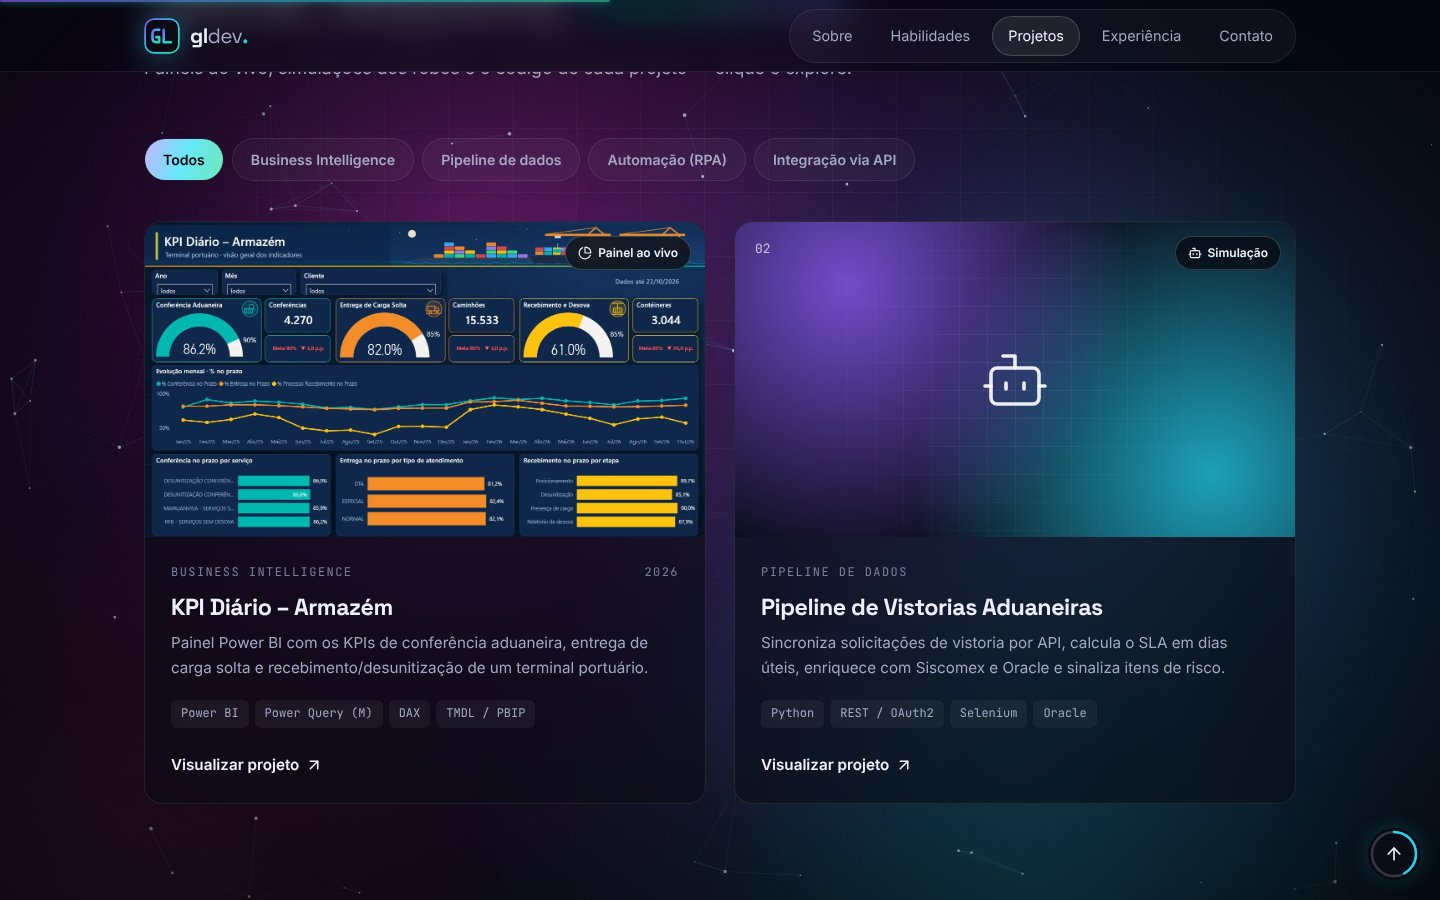
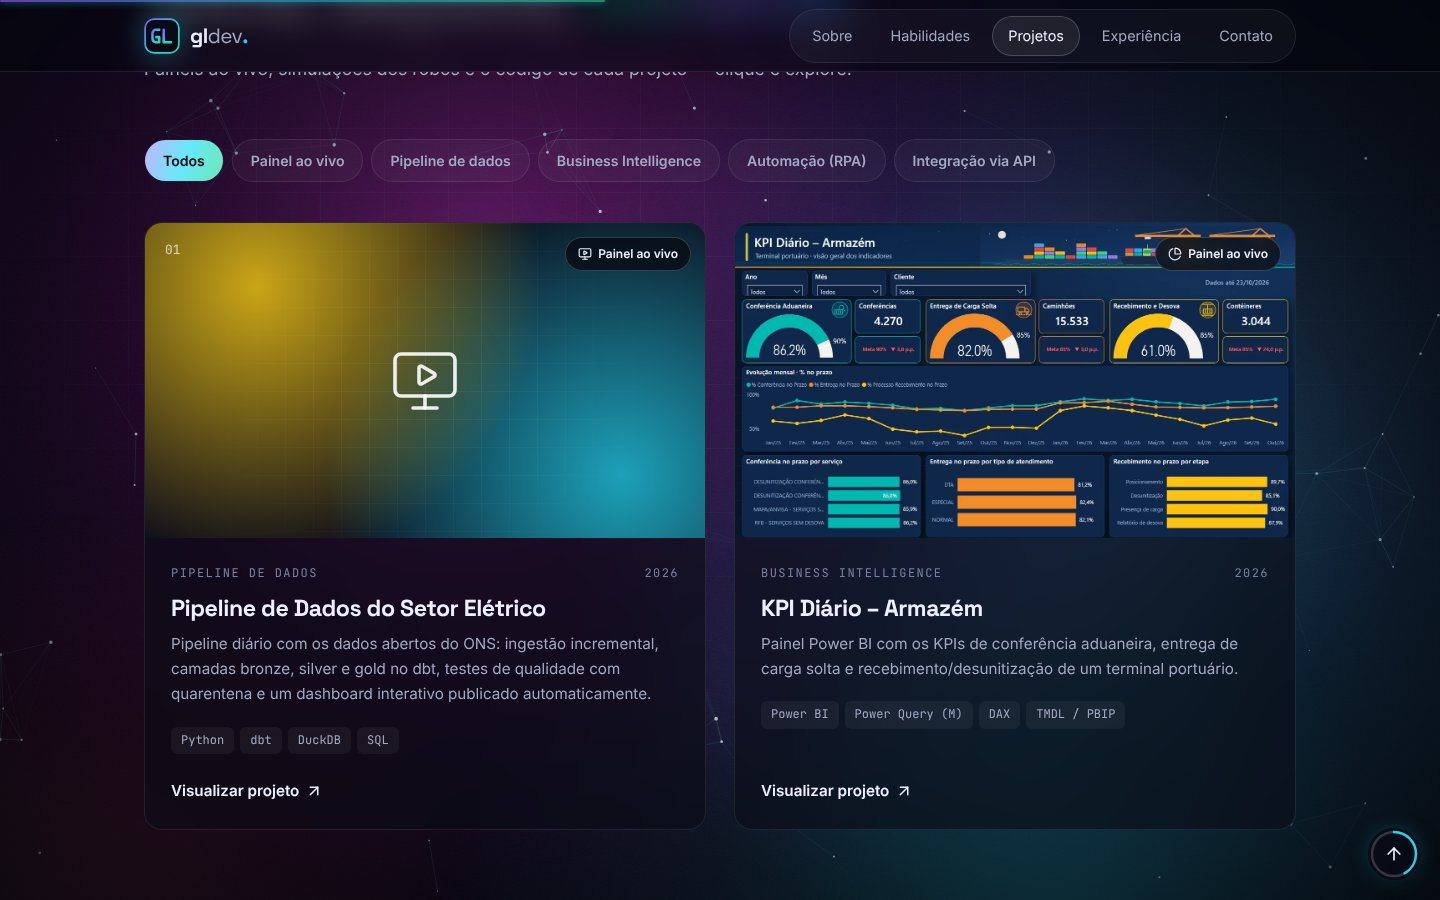
Atualiza README, guia de edição e estabiliza a frase rotativa do topo
Capturas novas do site; guia com o tipo fluxo, a altura opcional do
site, o subtítulo e o filtro Painel ao vivo. Abaixo de 1100 px a frase
rotativa fica sempre na própria linha, para o texto não pular entre
frases de tamanhos diferentes.

Claude-Session: https://claude.ai/code/session_01QcEhV5DZW7eNT5k3FmKKpr

diff --git a/src/secoes/Abertura/Abertura.module.css b/src/secoes/Abertura/Abertura.module.css
@@ -173,6 +173,13 @@
   }
 }
 
+@media (max-width: 1100px) {
+  /* A frase rotativa fica sempre na própria linha, para o texto não pular a cada troca */
+  .rotativo {
+    flex-basis: 100%;
+  }
+}
+
 @media (max-width: 420px) {
   .nome {
     white-space: normal;

diff --git a/docs/COMO-EDITAR.md b/docs/COMO-EDITAR.md
@@ -79,11 +79,16 @@ O nome da aba pode ser trocado com `rotulo: 'Nome da aba'`.
 | Tipo        | Quando usar                                   | Exemplo |
 | ----------- | --------------------------------------------- | ------- |
 | `powerbi`   | Relatório do Power BI ("Publicar na Web")     | `{ tipo: 'powerbi', url: 'https://app.powerbi.com/view?r=...' }` |
-| `site`      | Projeto publicado na internet                 | `{ tipo: 'site', url: 'https://...' }` |
+| `site`      | Projeto ou dashboard publicado na internet    | `{ tipo: 'site', url: 'https://...', altura: 900 }` (`altura` é opcional) |
 | `video`     | Vídeo no YouTube mostrando o projeto          | `{ tipo: 'video', url: 'https://www.youtube.com/watch?v=...' }` |
 | `galeria`   | Prints de telas                               | `{ tipo: 'galeria', imagens: [{ src: '/projetos/x/1.png', legenda: 'Tela inicial' }] }` |
 | `codigo`    | Mostrar um arquivo de código                  | `{ tipo: 'codigo', linguagem: 'Python', arquivo: '/projetos/x/script.py' }` |
 | `simulacao` | Mostrar um robô executando passo a passo      | `{ tipo: 'simulacao', etapas: [{ nome: 'Ler planilha', inicio: 'Abrindo…', fim: 'Planilha lida' }] }` |
+| `fluxo`     | Diagrama da arquitetura (aba "Arquitetura")   | `{ tipo: 'fluxo', etapas: [{ titulo: 'Origem', detalhe: 'Onde o dado nasce', icone: 'nuvem' }] }` |
+
+**Filtro "Painel ao vivo":** projetos com uma aba `powerbi` ou `site` entram nele sozinhos.
+
+**Subtítulo da página:** por padrão, a página do projeto repete o `resumo` do card. Para um texto diferente, preencha `subtitulo`.
 
 **Código:** copie o arquivo para `public/projetos/<slug-do-projeto>/` e aponte `arquivo` para ele.
 Linguagens com cores: `'Python'`, `'SQL'`, `'DAX'`, `'Power Query (M)'`, `'JavaScript'` (ou `'Texto'` sem cores).
@@ -112,7 +117,8 @@ npm run imagens
 ## 3. Habilidades — `habilidades.ts`
 
 Cada cartão tem `titulo`, `descricao`, a lista `itens` e um `icone`, que pode ser:
-`'dados'`, `'graficos'`, `'automacao'`, `'apps'` ou `'negocios'`.
+`'engenharia'`, `'dados'`, `'graficos'`, `'automacao'`, `'apps'` ou `'negocios'`.
+O primeiro card aparece em destaque, na largura toda.
 
 ## 4. Experiência — `experiencias.ts`
 
@@ -128,6 +134,7 @@ A mais recente primeiro. Use `atual: true` no emprego atual (o marcador fica ver
 ## Endereço do site e textos para o Google — `site.ts`
 
 `url` (endereço oficial), `titulo` e `descricao` aparecem no Google e nas prévias do link.
+`resumoPessoa` (frase curta) e `empresaAtual` vão para os dados que o Google lê sobre o George.
 O mapa do site (`sitemap.xml`) e as páginas com prévia de cada projeto são gerados sozinhos no `npm run build`.
 
 ## Mudando cores

diff --git a/README.md b/README.md
@@ -31,7 +31,8 @@ Os projetos vêm do repositório [glucas290/GLdev](https://github.com/glucas290/
 - **Fundo vivo:** auroras coloridas animadas pela placa de vídeo e uma constelação de pontos que reage ao mouse. As cores mudam conforme a rolagem.
 - **Conteúdo que aparece com o scroll:** blocos surgem com desfoque, as palavras do "Sobre" acendem uma a uma, a linha do tempo se preenche e os números contam até o valor.
 - **Projetos para testar, não só para ler:** cada projeto abre em abas dentro de uma "janela de navegador":
-  - **Power BI ao vivo** (publicado na web) e capturas de tela
+  - **Dashboards ao vivo**: o pipeline de dados do setor elétrico (GitHub Pages) e o painel Power BI do armazém
+  - **Arquitetura** do pipeline em diagrama e capturas de tela
   - **Simulação dos robôs**: etapas executando com log em tempo real
   - **Código real** com destaque de sintaxe (Python, SQL, DAX e Power Query M)
 - **Estudo de caso:** problema → solução → resultado, com diagrama "Como funciona" em que os dados percorrem o fluxo.
